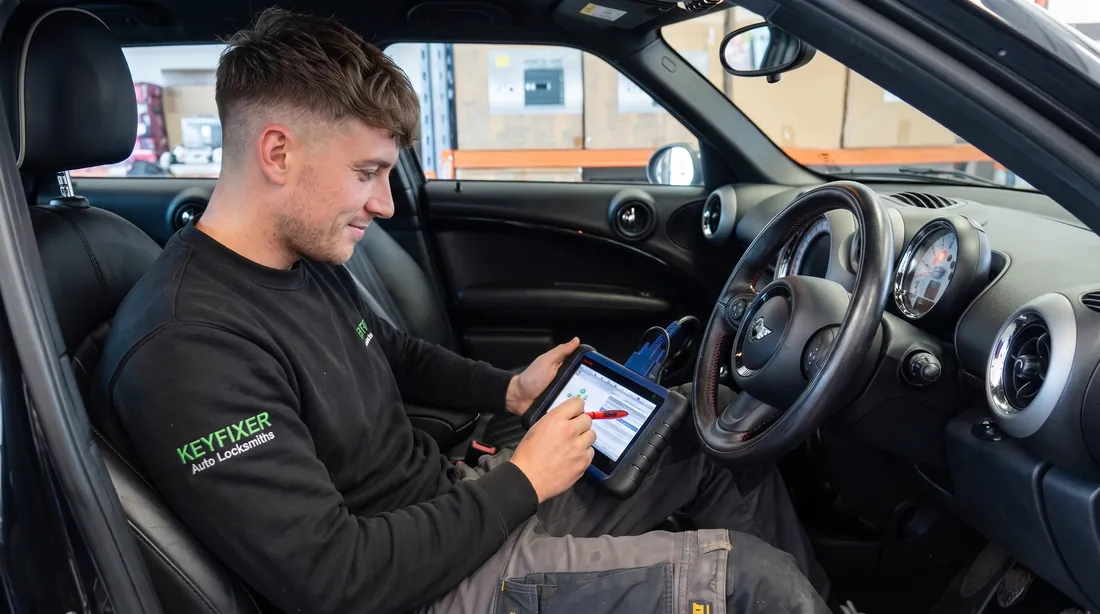
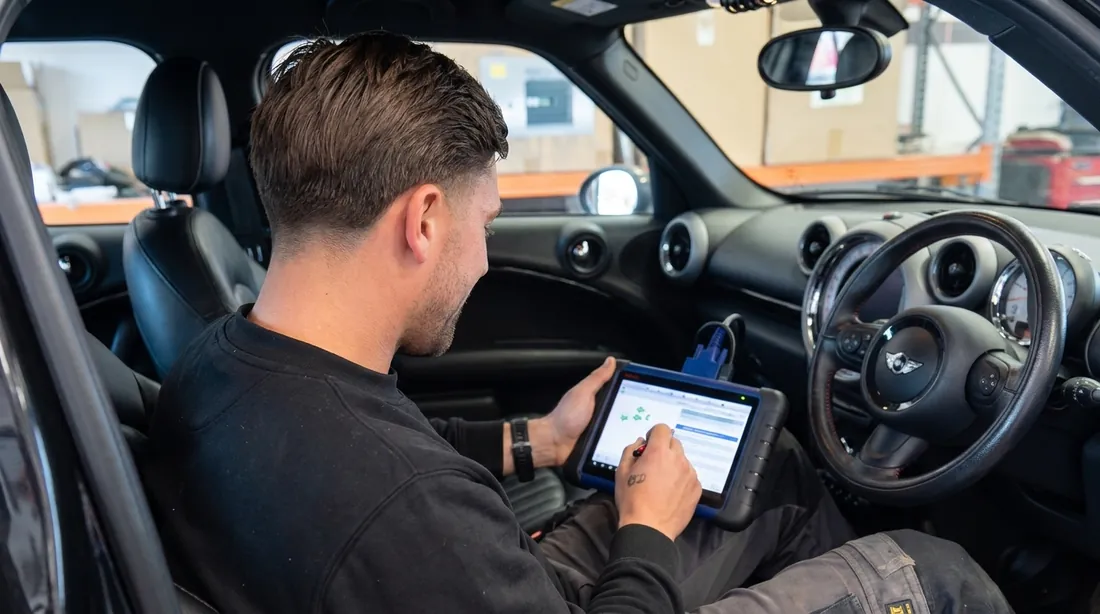
Swap owner photo to the over-the-shoulder shot
Anonymous (no identifiable face) so it suits a small multi-locksmith
team, while keeping the authentic "real pro mid-job" feel and showing
the diagnostic kit. 56KB webp.

diff --git a/index.html b/index.html
@@ -799,7 +799,7 @@ ul{list-style:none}
   <!-- ============================ OWNER / NO CALL CENTRE ============================ -->
   <section class="owner">
     <div class="container">
-      <img class="owner-photo" src="images/owner.webp" alt="Your local Belfast auto locksmith programming a key inside a customer's car" width="1100" height="614" loading="lazy">
+      <img class="owner-photo" src="images/owner.webp" alt="A KeyFixer auto locksmith programming a car key with a diagnostic tool in Belfast" width="1100" height="614" loading="lazy">
       <p class="section-eyebrow">Owner-Operated &middot; Belfast</p>
       <h2 class="h2">You'll Always Get the Same Local Locksmith.</h2>
       <p>When you call, you get me, your local Belfast locksmith. The person who answers the phone is the person who comes to your car, cuts your key and gets you back on the road. Same hands, the same 5.0-star service you'll see in the reviews above, start to finish.</p>
